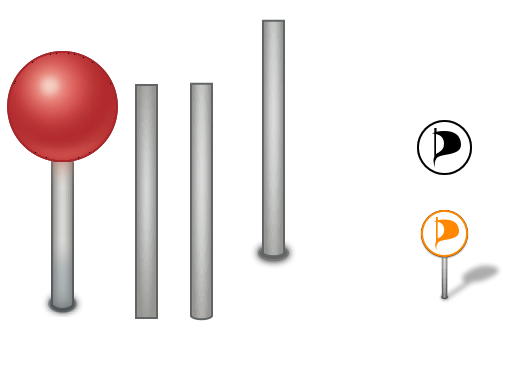
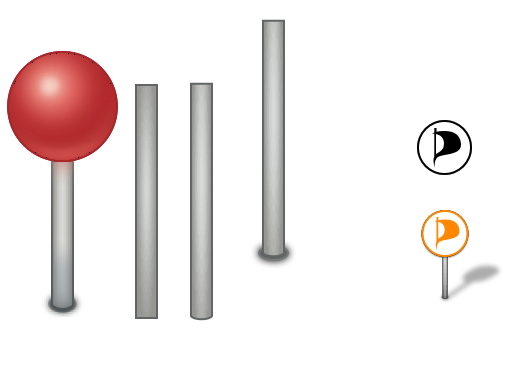
[CHANGE] adjusted offsets so everything is in it's right place

Changed region(s): [[0.4971, 0.058, 0.5592, 0.6675], [0.8078, 0.5515, 0.932, 0.7836], [0.8078, 0.3193, 0.932, 0.4644]]

diff --git a/Piratenkarte/PIKViewController.m b/Piratenkarte/PIKViewController.m
@@ -66,6 +66,7 @@
         if (pinImage) {
             result.image = pinImage;
             result.centerOffset = plakat.pinImageCenterOffset;
+            result.calloutOffset = CGPointMake(-plakat.pinImageCenterOffset.x,2);
         }
     }
     return result;

diff --git a/Piratenkarte/PIKPlakat.m b/Piratenkarte/PIKPlakat.m
@@ -55,7 +55,7 @@ NSString * const PIKPlakatTypeWallOK    = @"wand_ok";
 }
 
 - (CGPoint)pinImageCenterOffset {
-    CGPoint result = CGPointMake(10, -21);
+    CGPoint result = CGPointMake(8, -21);
     return result;
 }
 
